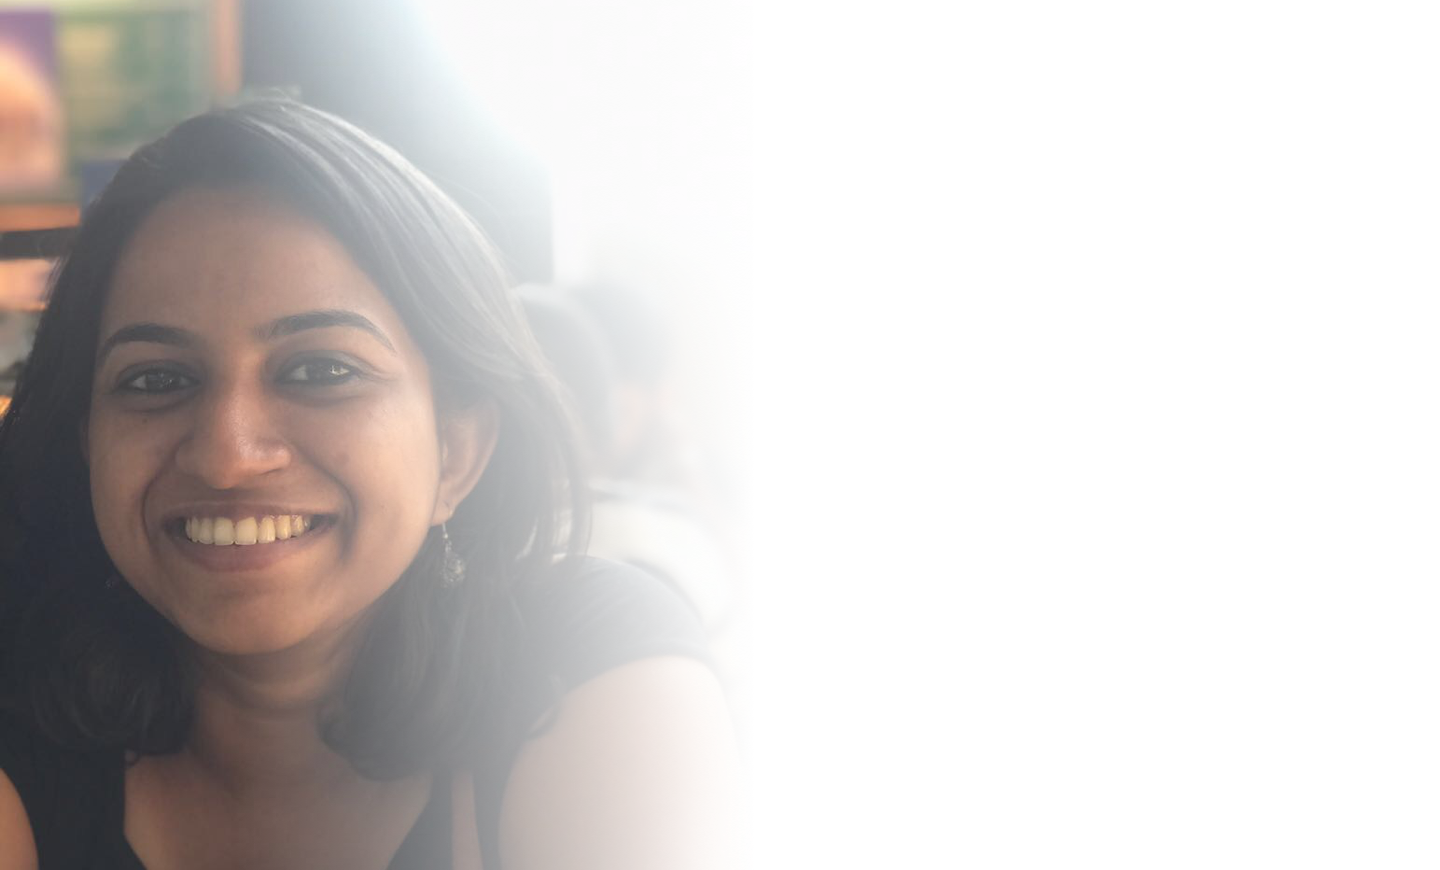
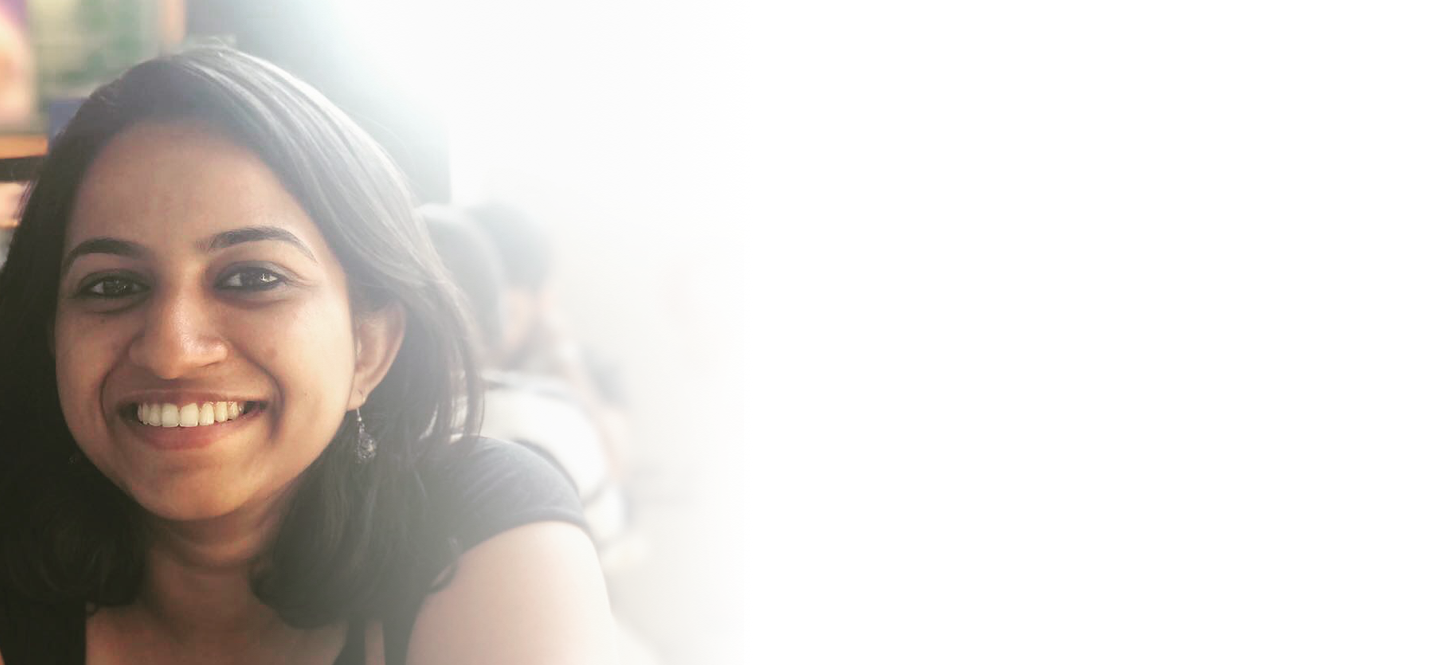
Main Pic changed

Changed region(s): [[0.0, 0.0, 0.4688, 1.0]]

diff --git a/index.html b/index.html
@@ -16,6 +16,6 @@
         <li class="contact"><a href="#">Contact</a></li>
       </ul>
     </div>
-    <img class="mainPic" src="images/main.png">
+    <img class="mainPic" src="images/mainPic.png">
   </body>
 </html>

diff --git a/css/styles.css b/css/styles.css
@@ -64,7 +64,3 @@ body {
   width: 100px;
   margin-left: 30px;
 }
-
-.mainPic {
-
-}
